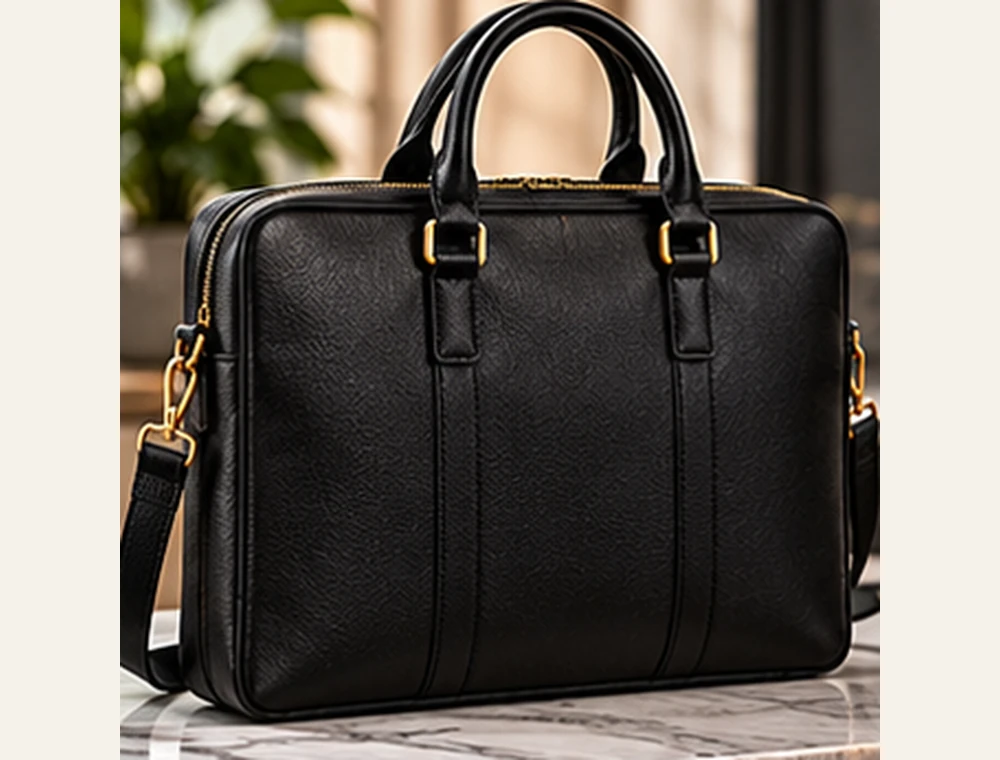
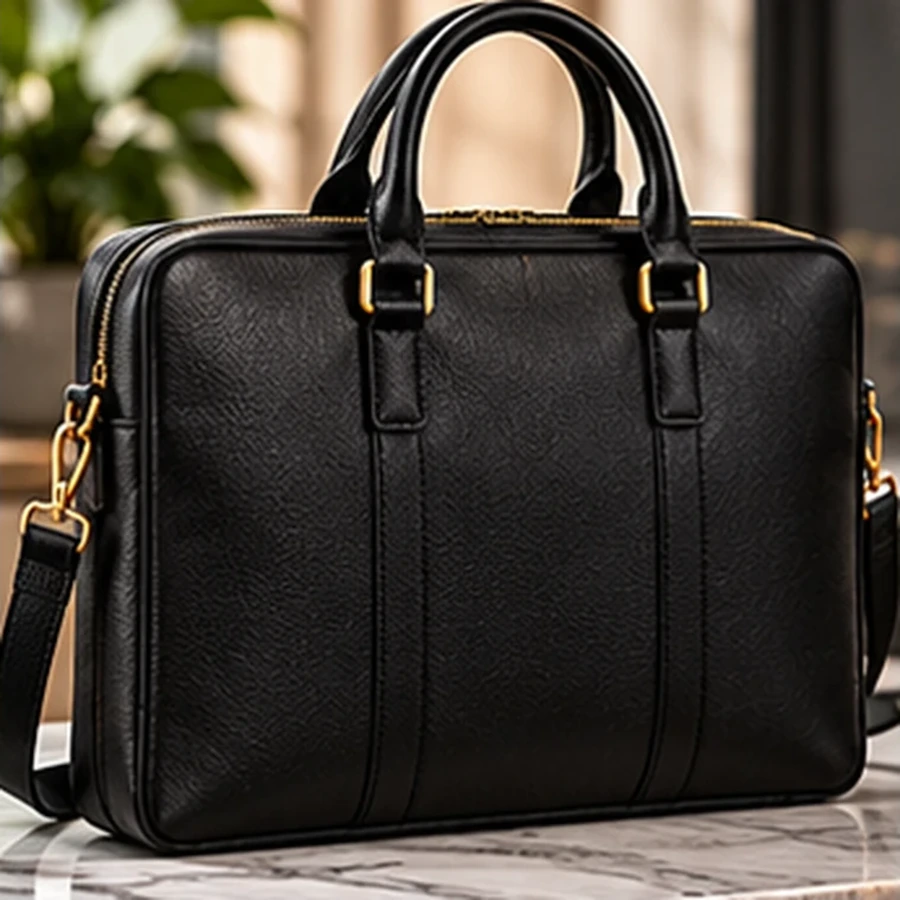
Add files via upload

diff --git a/css/style.css b/css/style.css
@@ -1,4 +1,4 @@
-*{box-sizing:border-box}body{margin:0;font-family:Arial,sans-serif;background:#f5f1e9;color:#18231f}a{text-decoration:none;color:inherit}.top{background:#13231f;color:#f7f0df;padding:9px 5%;font-size:12px;display:flex;justify-content:space-between}.nav{height:78px;background:#fffdf9;border-bottom:1px solid #ddd5c8;display:flex;align-items:center;justify-content:space-between;padding:0 5%;position:sticky;top:0;z-index:10}.logo{width:145px;height:64px;object-fit:contain}.navlinks{display:flex;gap:20px;font-size:14px}.icons{display:flex;gap:15px;font-size:19px}.hero{min-height:520px;background:#101915 url('../assets/editorial/hero.webp') center/cover no-repeat;display:flex;align-items:center;padding:70px 7%;color:white}.hero-copy{max-width:560px}.eyebrow{text-transform:uppercase;letter-spacing:3px;font-size:12px;color:#d5a657;font-weight:700}.hero h1{font-family:Georgia,serif;font-size:68px;line-height:.98;margin:16px 0}.hero p{font-size:18px;line-height:1.6}.btn{display:inline-block;background:#c99a4b;color:#14211d;padding:14px 24px;border-radius:3px;font-weight:700;margin-top:12px}.section{padding:60px 5%}.section h2{font:44px Georgia,serif;margin:0 0 28px}.categories{display:grid;grid-template-columns:repeat(8,1fr);gap:12px}.cat{background:#fff;border:1px solid #ddd5c8;border-radius:8px;overflow:hidden;text-align:center}.cat img{width:100%;height:160px;object-fit:cover;object-position:center;display:block;background:#f6f2ea;padding:0}.cat div{padding:12px;font-weight:700;font-size:13px}.promos{display:grid;grid-template-columns:repeat(3,1fr);gap:18px}.promo{height:250px;position:relative;overflow:hidden;isolation:isolate;background-size:cover;background-position:center;border-radius:12px;padding:30px;color:white;display:flex;flex-direction:column;justify-content:flex-end;box-shadow:0 12px 28px rgba(20,35,29,.10)}.promo::before{content:'';position:absolute;inset:0;background:linear-gradient(180deg,rgba(0,0,0,.04) 20%,rgba(0,0,0,.72) 100%);z-index:-1}.promo > *{position:relative;z-index:1}.promo:nth-child(2){color:#18231f}.promo:nth-child(2)::before{background:linear-gradient(180deg,rgba(255,255,255,.02) 15%,rgba(255,255,255,.82) 100%)}.promo:nth-child(2){color:#18231f}.promo h3{font:34px Georgia,serif;margin:0 0 8px}.products{display:grid;grid-template-columns:repeat(4,1fr);gap:20px}.card{background:#fff;border:1px solid #ddd5c8;border-radius:10px;overflow:hidden}.card img{width:100%;height:300px;object-fit:cover;object-position:center;display:block;background:#f6f2ea;padding:0}.cardbody{padding:18px}.tag{font-size:11px;text-transform:uppercase;letter-spacing:2px;color:#96703a;font-weight:700}.card h3{font:23px Georgia,serif;margin:8px 0}.desc{color:#66706b;line-height:1.5;font-size:14px}.price{font-weight:800;font-size:17px;margin:14px 0}.actions{display:flex;gap:8px}.add,.save{border:0;padding:11px 15px;border-radius:4px;cursor:pointer;font-weight:700}.add{background:#17342d;color:white}.save{background:#eee8dd;color:#24332e}.band{background:#17342d;color:#fff;padding:45px 5%;display:grid;grid-template-columns:repeat(4,1fr);gap:20px}.band strong{display:block;color:#d7ad62;margin-bottom:6px}.journal{display:grid;grid-template-columns:1.3fr 1fr 1fr;gap:18px}.article{background:white;border-radius:10px;overflow:hidden;border:1px solid #ddd5c8}.article img{width:100%;height:230px;object-fit:cover}.article div{padding:22px}.footer{background:#101815;color:#eae3d6;padding:55px 5% 25px}.footergrid{display:grid;grid-template-columns:2fr 1fr 1fr 1.5fr;gap:40px}.footer h4{color:#d4a65c}.footer a{display:block;margin:9px 0;color:#c8c2b7;font-size:14px}.footerbottom{border-top:1px solid #3a443f;margin-top:35px;padding-top:18px;font-size:12px;color:#9ca49f}.pagehead{padding:70px 5%;background:#17342d;color:#fff}.pagehead h1{font:54px Georgia,serif;margin:0}.form{max-width:700px;background:#fff;padding:30px;border-radius:10px}.form input,.form textarea,.form select{width:100%;padding:13px;margin:8px 0 16px;border:1px solid #ccc;border-radius:4px}.notice{background:#eee7db;padding:18px;border-left:4px solid #b98939}@media(max-width:900px){.navlinks{display:none}.categories{grid-template-columns:repeat(4,1fr)}.products{grid-template-columns:repeat(2,1fr)}.promos,.journal,.footergrid{grid-template-columns:1fr}.hero h1{font-size:48px}.band{grid-template-columns:repeat(2,1fr)}}@media(max-width:560px){.categories{grid-template-columns:repeat(2,1fr)}.products{grid-template-columns:1fr}.hero{min-height:600px;padding:40px 6%}.hero h1{font-size:42px}.section{padding:40px 5%}}
+*{box-sizing:border-box}body{margin:0;font-family:Arial,sans-serif;background:#f5f1e9;color:#18231f}a{text-decoration:none;color:inherit}.top{background:#13231f;color:#f7f0df;padding:9px 5%;font-size:12px;display:flex;justify-content:space-between}.nav{height:78px;background:#fffdf9;border-bottom:1px solid #ddd5c8;display:flex;align-items:center;justify-content:space-between;padding:0 5%;position:sticky;top:0;z-index:10}.logo{width:145px;height:64px;object-fit:contain}.navlinks{display:flex;gap:20px;font-size:14px}.icons{display:flex;gap:15px;font-size:19px}.hero{min-height:520px;background:#101915 url('../assets/editorial/hero.webp') center/cover no-repeat;display:flex;align-items:center;padding:70px 7%;color:white}.hero-copy{max-width:560px}.eyebrow{text-transform:uppercase;letter-spacing:3px;font-size:12px;color:#d5a657;font-weight:700}.hero h1{font-family:Georgia,serif;font-size:68px;line-height:.98;margin:16px 0}.hero p{font-size:18px;line-height:1.6}.btn{display:inline-block;background:#c99a4b;color:#14211d;padding:14px 24px;border-radius:3px;font-weight:700;margin-top:12px}.section{padding:60px 5%}.section h2{font:44px Georgia,serif;margin:0 0 28px}.categories{display:grid;grid-template-columns:repeat(8,1fr);gap:12px}.cat{background:#fff;border:1px solid #ddd5c8;border-radius:8px;overflow:hidden;text-align:center}.cat img{width:100%;height:180px;object-fit:cover;object-position:center;display:block;background:#f6f2ea;padding:0}.cat div{padding:12px;font-weight:700;font-size:13px}.promos{display:grid;grid-template-columns:repeat(3,1fr);gap:18px}.promo{height:250px;position:relative;overflow:hidden;isolation:isolate;background-size:cover;background-position:center;border-radius:12px;padding:30px;color:white;display:flex;flex-direction:column;justify-content:flex-end;box-shadow:0 12px 28px rgba(20,35,29,.10)}.promo::before{content:'';position:absolute;inset:0;background:linear-gradient(180deg,rgba(0,0,0,.04) 20%,rgba(0,0,0,.72) 100%);z-index:-1}.promo > *{position:relative;z-index:1}.promo:nth-child(2){color:#18231f}.promo:nth-child(2)::before{background:linear-gradient(180deg,rgba(255,255,255,.02) 15%,rgba(255,255,255,.82) 100%)}.promo:nth-child(2){color:#18231f}.promo h3{font:34px Georgia,serif;margin:0 0 8px}.products{display:grid;grid-template-columns:repeat(4,1fr);gap:20px}.card{background:#fff;border:1px solid #ddd5c8;border-radius:10px;overflow:hidden}.card img{width:100%;height:330px;object-fit:cover;object-position:center;display:block;background:#f6f2ea;padding:0}.cardbody{padding:18px}.tag{font-size:11px;text-transform:uppercase;letter-spacing:2px;color:#96703a;font-weight:700}.card h3{font:23px Georgia,serif;margin:8px 0}.desc{color:#66706b;line-height:1.5;font-size:14px}.price{font-weight:800;font-size:17px;margin:14px 0}.actions{display:flex;gap:8px}.add,.save{border:0;padding:11px 15px;border-radius:4px;cursor:pointer;font-weight:700}.add{background:#17342d;color:white}.save{background:#eee8dd;color:#24332e}.band{background:#17342d;color:#fff;padding:45px 5%;display:grid;grid-template-columns:repeat(4,1fr);gap:20px}.band strong{display:block;color:#d7ad62;margin-bottom:6px}.journal{display:grid;grid-template-columns:1.3fr 1fr 1fr;gap:18px}.article{background:white;border-radius:10px;overflow:hidden;border:1px solid #ddd5c8}.article img{width:100%;height:230px;object-fit:cover}.article div{padding:22px}.footer{background:#101815;color:#eae3d6;padding:55px 5% 25px}.footergrid{display:grid;grid-template-columns:2fr 1fr 1fr 1.5fr;gap:40px}.footer h4{color:#d4a65c}.footer a{display:block;margin:9px 0;color:#c8c2b7;font-size:14px}.footerbottom{border-top:1px solid #3a443f;margin-top:35px;padding-top:18px;font-size:12px;color:#9ca49f}.pagehead{padding:70px 5%;background:#17342d;color:#fff}.pagehead h1{font:54px Georgia,serif;margin:0}.form{max-width:700px;background:#fff;padding:30px;border-radius:10px}.form input,.form textarea,.form select{width:100%;padding:13px;margin:8px 0 16px;border:1px solid #ccc;border-radius:4px}.notice{background:#eee7db;padding:18px;border-left:4px solid #b98939}@media(max-width:900px){.navlinks{display:none}.categories{grid-template-columns:repeat(4,1fr)}.products{grid-template-columns:repeat(2,1fr)}.promos,.journal,.footergrid{grid-template-columns:1fr}.hero h1{font-size:48px}.band{grid-template-columns:repeat(2,1fr)}}@media(max-width:560px){.categories{grid-template-columns:repeat(2,1fr)}.products{grid-template-columns:1fr}.hero{min-height:600px;padding:40px 6%}.hero h1{font-size:42px}.section{padding:40px 5%}}
 /* V3 image framing refinement: imagery fills its visual frame while preserving complete card structure. */
-@media(max-width:900px){.cat img{height:150px}.card img{height:280px}}
-@media(max-width:560px){.cat img{height:170px}.card img{height:300px}}
+@media(max-width:900px){.cat img{height:170px}.card img{height:300px}}
+@media(max-width:560px){.cat img{height:190px}.card img{height:320px}}
